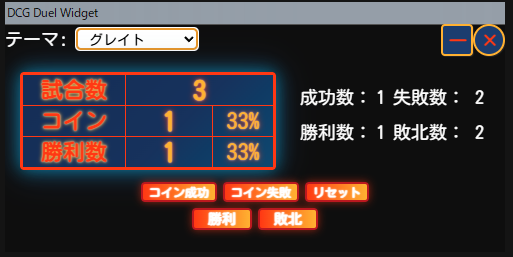
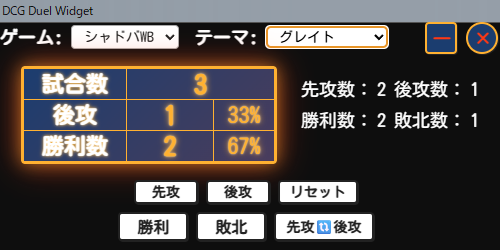
README更新: 全テーマ画像追加、シンプルな紹介文に変更、バージョン履歴をv0.2に修正

diff --git a/index.html b/index.html
@@ -43,7 +43,7 @@
 <body>
     <!-- ウィジェットコンテナ -->
     <div id="widget-container">
-        <!-- テンプレートの内容がここに挿入されます -->
+        <!-- テンプレートがここに挿入されます -->
     </div>
 
     <!-- JavaScriptファイルの読み込み -->
@@ -116,7 +116,6 @@
                             <option value="default">デフォルト</option>
                             <option value="dark">ダーク</option>
                             <option value="pink">綿菓子ピンク</option>
-                            <option value="blackglass">黒透明</option>
                             <option value="cyber">サイバー</option>
                             <option value="matcha">抹茶</option>
                             <option value="choco">チョコ</option>
@@ -190,7 +189,6 @@
                             <option value="default">デフォルト</option>
                             <option value="dark">ダーク</option>
                             <option value="pink">綿菓子ピンク</option>
-                            <option value="blackglass">黒透明</option>
                             <option value="cyber">サイバー</option>
                             <option value="matcha">抹茶</option>
                             <option value="choco">チョコ</option>
@@ -261,7 +259,6 @@
                                 <option value="default">デフォルト</option>
                                 <option value="dark">ダーク</option>
                                 <option value="pink">綿菓子ピンク</option>
-                                <option value="blackglass">黒透明</option>
                                 <option value="cyber">サイバー</option>
                                 <option value="matcha">抹茶</option>
                                 <option value="choco">チョコ</option>
@@ -327,7 +324,6 @@
                                 <option value="default">デフォルト</option>
                                 <option value="dark">ダーク</option>
                                 <option value="pink">綿菓子ピンク</option>
-                                <option value="blackglass">黒透明</option>
                                 <option value="cyber">サイバー</option>
                                 <option value="matcha">抹茶</option>
                                 <option value="choco">チョコ</option>

diff --git a/styles/themes.css b/styles/themes.css
@@ -32,39 +32,7 @@
     border: 2px solid #222;
 }
 
-/* テーマ: ダーク */
-.main-table.theme-dark {
-    background: #222;
-    color: #fff;
-    border: 2px solid #444;
-    box-shadow: 2px 2px 0 #111;
-}
 
-.main-table.theme-dark th, .main-table.theme-dark td {
-    background: #222;
-    color: #fff;
-    border: 1px solid #444;
-}
-
-.main-table.theme-dark ~ .btn-area .btn,
-.main-table.theme-dark ~ .btn-area .btn-small {
-    background: #222;
-    color: #fff;
-    border: 2px solid #444;
-    box-shadow: 1px 1px 0 #111;
-}
-
-.main-table.theme-dark ~ .btn-area .btn:hover,
-.main-table.theme-dark ~ .btn-area .btn-small:hover {
-    background: #333;
-}
-
-.theme-area.theme-dark .window-btns .close-btn,
-.theme-area.theme-dark .window-btns .min-btn {
-    background: #222;
-    color: #fff;
-    border: 2px solid #444;
-}
 
 /* テーマ: ピンク（綿菓子） */
 .main-table.theme-pink {
@@ -100,35 +68,35 @@
     border: 2px solid #f7b5e4;
 }
 
-/* テーマ: 黒透明 */
-.main-table.theme-blackglass {
+/* テーマ: ダーク */
+.main-table.theme-dark {
     background: rgba(20,20,20,0.7);
     color: #fff;
     border: 2px solid #444;
     box-shadow: 2px 2px 8px #0008;
 }
 
-.main-table.theme-blackglass th, .main-table.theme-blackglass td {
+.main-table.theme-dark th, .main-table.theme-dark td {
     background: rgba(20,20,20,0.7);
     color: #fff;
     border: 1px solid #444;
 }
 
-.main-table.theme-blackglass ~ .btn-area .btn,
-.main-table.theme-blackglass ~ .btn-area .btn-small {
+.main-table.theme-dark ~ .btn-area .btn,
+.main-table.theme-dark ~ .btn-area .btn-small {
     background: rgba(20,20,20,0.7);
     color: #fff;
     border: 2px solid #444;
     box-shadow: 1px 1px 0 #222;
 }
 
-.main-table.theme-blackglass ~ .btn-area .btn:hover,
-.main-table.theme-blackglass ~ .btn-area .btn-small:hover {
+.main-table.theme-dark ~ .btn-area .btn:hover,
+.main-table.theme-dark ~ .btn-area .btn-small:hover {
     background: rgba(40,40,40,0.8);
 }
 
-.theme-area.theme-blackglass .window-btns .close-btn,
-.theme-area.theme-blackglass .window-btns .min-btn {
+.theme-area.theme-dark .window-btns .close-btn,
+.theme-area.theme-dark .window-btns .min-btn {
     background: rgba(20,20,20,0.7);
     color: #fff;
     border: 2px solid #444;

diff --git a/templates/duel-widget.html b/templates/duel-widget.html
@@ -1,4 +1,4 @@
-<!-- マスターデュエル用ウィジェットテンプレート -->
+<!-- 遊戯王マスターデュエル用ウィジェットテンプレート -->
 <div class="theme-area">
     <div class="theme-left">
         <label for="themeSelect">テーマ:</label>
@@ -6,7 +6,6 @@
             <option value="default">デフォルト</option>
             <option value="dark">ダーク</option>
             <option value="pink">綿菓子ピンク</option>
-            <option value="blackglass">黒透明</option>
             <option value="cyber">サイバー</option>
             <option value="matcha">抹茶</option>
             <option value="choco">チョコ</option>

diff --git a/templates/shadowverse-widget.html b/templates/shadowverse-widget.html
@@ -6,7 +6,6 @@
             <option value="default">デフォルト</option>
             <option value="dark">ダーク</option>
             <option value="pink">綿菓子ピンク</option>
-            <option value="blackglass">黒透明</option>
             <option value="cyber">サイバー</option>
             <option value="matcha">抹茶</option>
             <option value="choco">チョコ</option>

diff --git a/README.md b/README.md
@@ -4,18 +4,138 @@
 
 ---
 
-## 🎮 対応ゲーム
+## 1. 基本画面表示
 
-### 遊戯王マスターデュエル
-- コイントスの成功/失敗を記録
-- 試合数、勝利数、勝率を自動計算
-- 配信者向けの詳細インジケーター付き
+![基本画面表示](assets/forREADME/1_基本画面表示.png)
 
-### シャドウバースWorld Beyond
-- 先攻/後攻の記録機能
-- 「先攻🔃後攻」ボタンでモード切り替え
-- 先攻数・後攻数の詳細表示
-- 試合数、勝利数、勝率を自動計算
+ウィジェットを起動すると、まずこのようなシンプルな画面が表示されます。  
+ゲーム選択プルダウンで「遊戯王MD」と「シャドバWB」を切り替えることができ、試合数やコインの成功数・勝利数など、配信中に知りたい情報がひと目で分かります。
+
+---
+
+## 2. 操作説明（遊戯王マスターデュエル）
+
+![操作説明(遊戯王MD)](assets/forREADME/2_操作説明(遊戯王MD).png)
+
+遊戯王マスターデュエル用のウィジェットです。コイントスの成功/失敗を記録し、試合数、勝利数、勝率を自動計算します。  
+右側の配信者向けのインジケーターで、成功数・失敗数の内訳も確認できます。
+
+### 主な機能
+- **コイン成功/失敗**: コイントスの結果を記録
+- **試合数**: 総試合数を自動カウント
+- **勝利数/敗北数**: 勝敗を記録
+- **成功率/勝率**: 自動計算でリアルタイム表示
+
+---
+
+## 3. 操作説明（シャドウバースWorld Beyond）
+
+![操作説明(シャドバWB)](assets/forREADME/3_操作説明(シャドバWB).png)
+
+シャドウバースWorld Beyond用のウィジェットです。先攻/後攻の記録機能があり、「先攻🔃後攻」ボタンでモード切り替えができます。  
+もちろん、先攻と後攻を入れ替えても各数値は維持されます。  
+右側のインジケーターで、補助情報も提供します。
+
+### 主な機能
+- **先攻/後攻**: 先攻と後攻を個別に記録
+- **モード切り替え**: 「先攻🔃後攻」ボタンで表示切り替え
+- **インジケーター**: 先攻数・後攻数の内訳表示
+
+---
+
+## 4-1. 配信ウィジェットとして利用可能（遊戯王MD）
+
+![配信ウィジェットとして利用可能(遊戯王MD)](assets/forREADME/4-1_配信ウィジェットとして利用可能(遊戯王MD).png)
+
+OBS Studioなどの配信ソフトでウィンドウキャプチャとして利用できます。遊戯王マスターデュエルの配信で、コイントスの成功率や勝率を視聴者に分かりやすく表示できます。
+
+---
+
+## 4-2. 配信ウィジェットとして利用可能（シャドバWB）
+
+![配信ウィジェットとして利用可能(シャドバWB)](assets/forREADME/4-2_配信ウィジェットとして利用可能(シャドバWB).png)
+
+シャドウバースWorld Beyondの配信でも、先攻/後攻の記録や勝率をリアルタイムで表示できます。配信の雰囲気に合わせてテーマを変更することで、より魅力的な配信が可能です。
+
+---
+
+## 5. 選べるたくさんのカラーテーマ
+
+![選べるたくさんのカラーテーマ](assets/forREADME/5_選べるたくさんのカラーテーマ.png)
+
+14種類の豊富なカラーテーマから選択できます。配信の雰囲気やゲームの世界観に合わせて、最適なテーマを選ぶことができます。
+
+---
+
+## 6. ダークテーマ
+
+![ダークテーマ](assets/forREADME/6_ダーク.png)
+
+---
+
+## 7. 綿菓子ピンクテーマ
+
+![綿菓子ピンクテーマ](assets/forREADME/7_綿菓子ピンク.png)
+
+---
+
+## 8. サイバーテーマ
+
+![サイバーテーマ](assets/forREADME/8_サイバー.png)
+
+---
+
+## 9. 抹茶テーマ
+
+![抹茶テーマ](assets/forREADME/9_抹茶.png)
+
+---
+
+## 10. チョコテーマ
+
+![チョコテーマ](assets/forREADME/10_チョコ.png)
+
+---
+
+## 11. マリンテーマ
+
+![マリンテーマ](assets/forREADME/11_マリン.png)
+
+---
+
+## 12. 灼熱テーマ
+
+![灼熱テーマ](assets/forREADME/12_灼熱.png)
+
+---
+
+## 13. グレイトテーマ
+
+![グレイトテーマ](assets/forREADME/13_グレイト.png)
+
+---
+
+## 14. 白銀城テーマ
+
+![白銀城テーマ](assets/forREADME/14_白銀城.png)
+
+---
+
+## 15. ピュアテーマ
+
+![ピュアテーマ](assets/forREADME/15_ピュア.png)
+
+---
+
+## 16. 伽藍テーマ
+
+![伽藍テーマ](assets/forREADME/16_伽藍.png)
+
+---
+
+## 17. ロイヤルテーマ
+
+![ロイヤルテーマ](assets/forREADME/17_ロイヤル.png)
 
 ---
 
@@ -25,7 +145,6 @@
 - **デフォルト**: シンプルで見やすい基本デザイン
 - **ダーク**: 暗めの配色で目に優しい
 - **綿菓子ピンク**: 可愛らしいピンク系
-- **黒透明**: 透明感のある黒ベース
 
 ### ゲーミングテーマ
 - **サイバー**: サイバーパンク風の青系
@@ -44,17 +163,6 @@
 ---
 
 ## 📊 基本機能
-
-### 遊戯王マスターデュエルモード
-- **コイン成功/失敗**: コイントスの結果を記録
-- **試合数**: 総試合数を自動カウント
-- **勝利数/敗北数**: 勝敗を記録
-- **成功率/勝率**: 自動計算でリアルタイム表示
-
-### シャドウバースWorld Beyondモード
-- **先攻/後攻**: 先攻と後攻を個別に記録
-- **モード切り替え**: 「先攻🔃後攻」ボタンで表示切り替え
-- **詳細インジケーター**: 先攻数・後攻数の内訳表示
 
 ### 共通機能
 - **リセット**: すべてのカウントを0に戻す
@@ -133,12 +241,17 @@
 
 ## 📝 更新履歴
 
-### v1.0.0
-- 遊戯王マスターデュエル対応
+### v0.2
 - シャドウバースWorld Beyond対応
-- 15種類のカラーテーマ
+- 14種類のカラーテーマ追加
 - キーボードショートカット対応
-- 配信用ウィジェット機能
+- 配信用ウィジェット機能強化
+- UI/UX改善
+
+### v0.1
+- 遊戯王マスターデュエル対応
+- 基本機能（コイントス記録、勝率計算）
+- シンプルな配信ウィジェット機能
 
 ---
 
